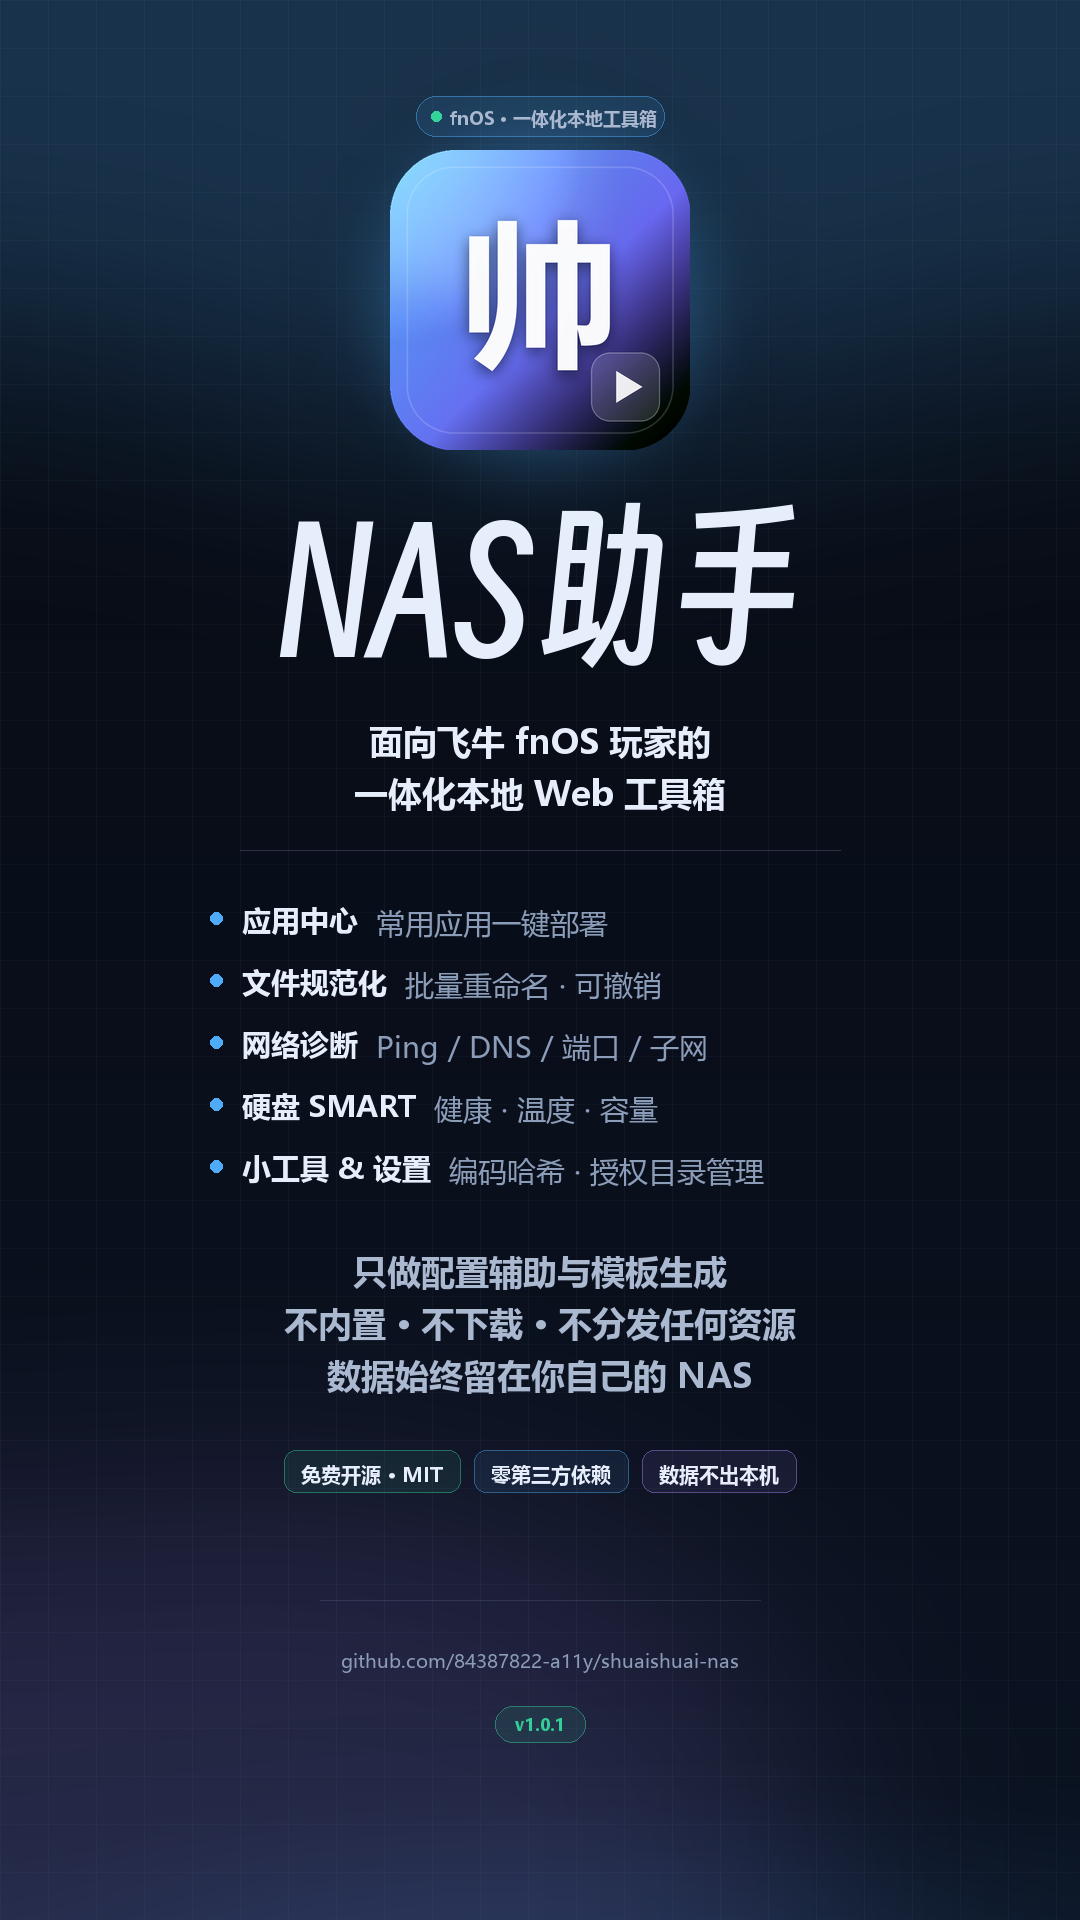
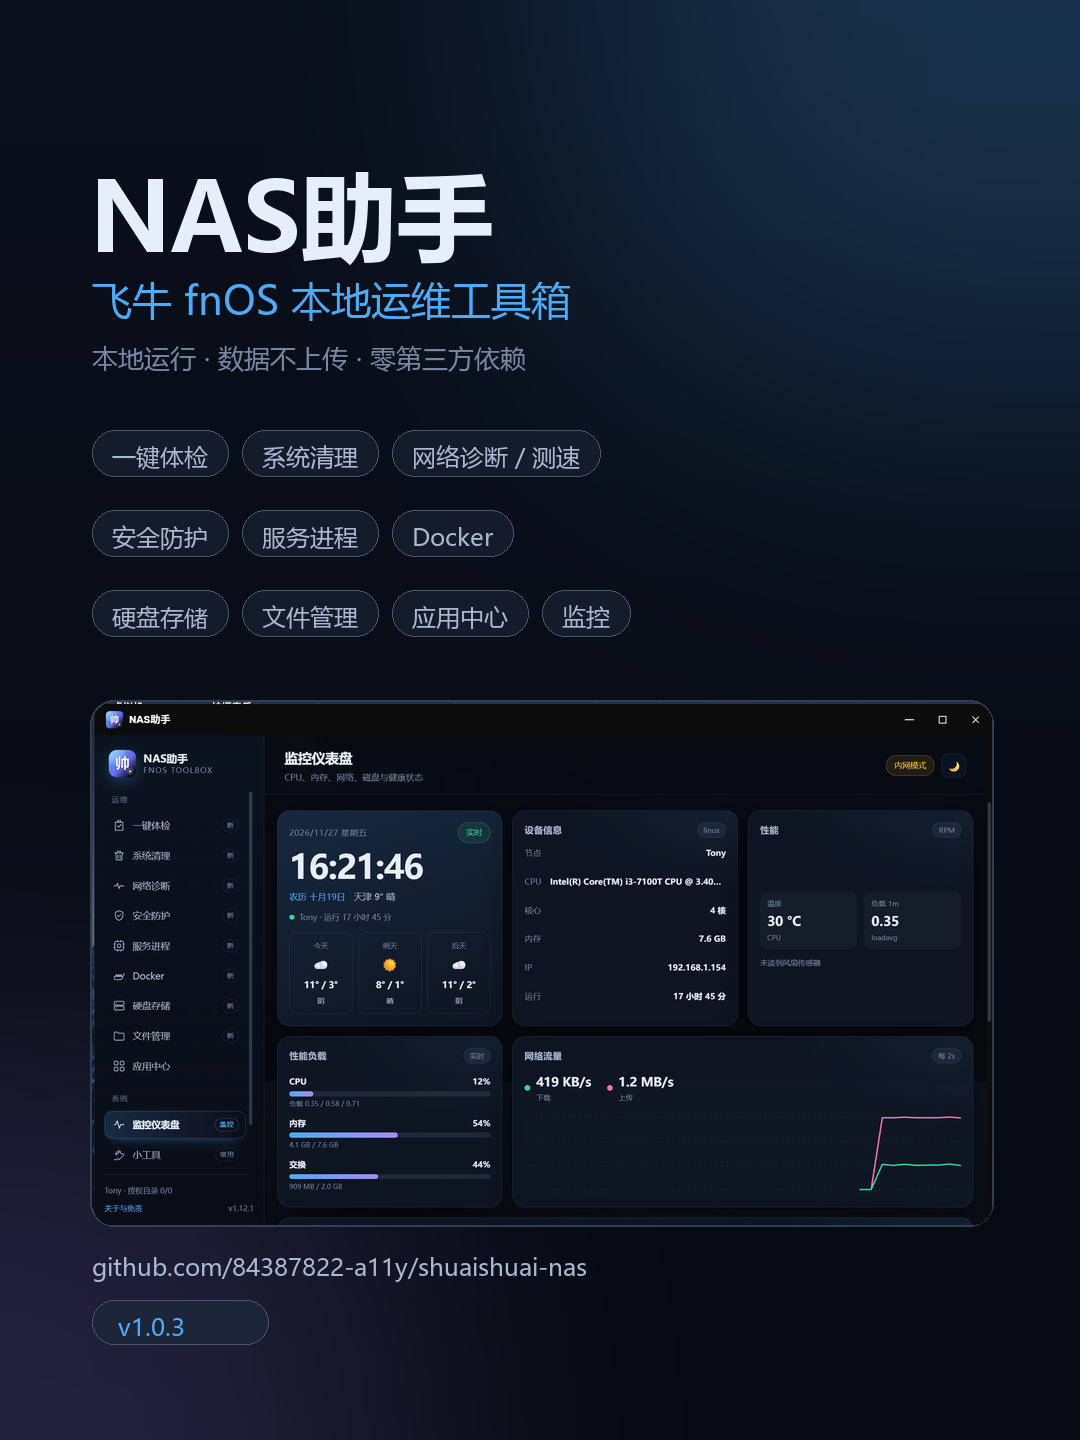
docs: 更新发布封面（横版 1280x640 / 竖版 1080x1440）

diff --git a/scripts/make-cover.py b/scripts/make-cover.py
@@ -1,0 +1,141 @@
+#!/usr/bin/env python
+"""生成发布用封面：1280x640（横版）与 1080x1440（竖版）。
+
+素材：真机截图 docs/screenshots/*.png；字体使用系统微软雅黑。
+输出：docs/cover.png、docs/cover-vertical.png
+"""
+
+from pathlib import Path
+
+from PIL import Image, ImageDraw, ImageFilter, ImageFont
+
+ROOT = Path(__file__).resolve().parent.parent
+SHOTS = ROOT / "docs" / "screenshots"
+OUT_H = ROOT / "docs" / "cover.png"
+OUT_V = ROOT / "docs" / "cover-vertical.png"
+
+FONT_BOLD = "C:/Windows/Fonts/msyhbd.ttc"
+FONT_REG = "C:/Windows/Fonts/msyh.ttc"
+
+BG_TOP = (10, 16, 28)
+BG_BOTTOM = (6, 10, 18)
+ACCENT = (77, 171, 247)
+ACCENT_2 = (167, 139, 250)
+TEXT = (231, 238, 251)
+TEXT_2 = (170, 184, 208)
+MUTED = (119, 135, 163)
+
+
+def font(path, size):
+    return ImageFont.truetype(path, size)
+
+
+def gradient(size):
+    w, h = size
+    img = Image.new("RGB", size, BG_TOP)
+    d = ImageDraw.Draw(img)
+    for y in range(h):
+        t = y / max(1, h - 1)
+        c = tuple(int(BG_TOP[i] + (BG_BOTTOM[i] - BG_TOP[i]) * t) for i in range(3))
+        d.line([(0, y), (w, y)], fill=c)
+    return img
+
+
+def add_glow(img, center, radius, color, alpha=70):
+    layer = Image.new("RGBA", img.size, (0, 0, 0, 0))
+    d = ImageDraw.Draw(layer)
+    x, y = center
+    d.ellipse([x - radius, y - radius, x + radius, y + radius], fill=color + (alpha,))
+    layer = layer.filter(ImageFilter.GaussianBlur(radius // 2))
+    img.alpha_composite(layer)
+
+
+def rounded_shot(path, width, radius=18, border=(60, 74, 96)):
+    shot = Image.open(path).convert("RGB")
+    ratio = width / shot.width
+    shot = shot.resize((width, int(shot.height * ratio)), Image.LANCZOS)
+    mask = Image.new("L", shot.size, 0)
+    ImageDraw.Draw(mask).rounded_rectangle([0, 0, shot.width, shot.height], radius=radius, fill=255)
+    out = Image.new("RGBA", shot.size, (0, 0, 0, 0))
+    out.paste(shot, (0, 0), mask)
+    frame = Image.new("RGBA", (shot.width + 4, shot.height + 4), (0, 0, 0, 0))
+    ImageDraw.Draw(frame).rounded_rectangle(
+        [0, 0, shot.width + 3, shot.height + 3], radius=radius + 2, outline=border + (200,), width=2
+    )
+    frame.alpha_composite(out, (2, 2))
+    return frame
+
+
+def chips(draw, x, y, items, size=19, gap=12, pad_x=16, pad_y=9):
+    f = font(FONT_REG, size)
+    cx = x
+    for text in items:
+        w = draw.textlength(text, font=f)
+        box = [cx, y, cx + w + pad_x * 2, y + size + pad_y * 2]
+        draw.rounded_rectangle(box, radius=(size + pad_y * 2) // 2, outline=(70, 86, 112), width=1, fill=(20, 28, 44))
+        draw.text((cx + pad_x, y + pad_y - 1), text, font=f, fill=TEXT_2)
+        cx = box[2] + gap
+    return cx
+
+
+def build_horizontal():
+    w, h = 1280, 640
+    img = gradient((w, h)).convert("RGBA")
+    add_glow(img, (1050, 90), 320, ACCENT, 60)
+    add_glow(img, (200, 620), 300, ACCENT_2, 45)
+
+    d = ImageDraw.Draw(img)
+
+    # 左侧文字
+    d.text((72, 118), "NAS助手", font=font(FONT_BOLD, 78), fill=TEXT)
+    d.text((74, 216), "飞牛 fnOS 本地运维工具箱", font=font(FONT_REG, 30), fill=ACCENT)
+    d.text((74, 268), "本地运行 · 数据不上传 · 零第三方依赖", font=font(FONT_REG, 21), fill=MUTED)
+
+    chips(d, 74, 330, ["一键体检", "系统清理", "网络诊断 / 测速"], size=18, gap=10)
+    chips(d, 74, 386, ["安全防护", "服务进程", "Docker"], size=18, gap=10)
+    chips(d, 74, 442, ["硬盘存储", "文件管理", "应用中心", "监控"], size=18, gap=10)
+
+    d.text((74, 556), "github.com/84387822-a11y/shuaishuai-nas", font=font(FONT_REG, 20), fill=TEXT_2)
+    d.rounded_rectangle([74, 590, 220, 590 + 34], radius=17, fill=(28, 38, 56), outline=(70, 86, 112))
+    d.text((94, 596), "v1.0.3", font=font(FONT_REG, 19), fill=ACCENT)
+
+    # 右侧截图：两张叠加
+    main = rounded_shot(SHOTS / "01-monitor.png", 620)
+    back = rounded_shot(SHOTS / "02-apps-center.png", 470)
+
+    img.alpha_composite(back, (w - back.width - 10, 96 + 26))
+    img.alpha_composite(main, (w - main.width - 66, 250))
+
+    img.convert("RGB").save(OUT_H, "PNG", optimize=True)
+    return OUT_H
+
+
+def build_vertical():
+    w, h = 1080, 1440
+    img = gradient((w, h)).convert("RGBA")
+    add_glow(img, (860, 120), 420, ACCENT, 55)
+    add_glow(img, (140, 1320), 380, ACCENT_2, 45)
+
+    d = ImageDraw.Draw(img)
+    d.text((90, 150), "NAS助手", font=font(FONT_BOLD, 96), fill=TEXT)
+    d.text((92, 272), "飞牛 fnOS 本地运维工具箱", font=font(FONT_REG, 40), fill=ACCENT)
+    d.text((92, 340), "本地运行 · 数据不上传 · 零第三方依赖", font=font(FONT_REG, 26), fill=MUTED)
+
+    chips(d, 92, 430, ["一键体检", "系统清理", "网络诊断 / 测速"], size=24, gap=14, pad_x=20, pad_y=11)
+    chips(d, 92, 510, ["安全防护", "服务进程", "Docker"], size=24, gap=14, pad_x=20, pad_y=11)
+    chips(d, 92, 590, ["硬盘存储", "文件管理", "应用中心", "监控"], size=24, gap=14, pad_x=20, pad_y=11)
+
+    shot = rounded_shot(SHOTS / "01-monitor.png", 900, radius=22)
+    img.alpha_composite(shot, (90, 700))
+
+    d.text((92, 1250), "github.com/84387822-a11y/shuaishuai-nas", font=font(FONT_REG, 24), fill=TEXT_2)
+    d.rounded_rectangle([92, 1300, 268, 1300 + 44], radius=22, fill=(28, 38, 56), outline=(70, 86, 112))
+    d.text((118, 1310), "v1.0.3", font=font(FONT_REG, 24), fill=ACCENT)
+
+    img.convert("RGB").save(OUT_V, "PNG", optimize=True)
+    return OUT_V
+
+
+if __name__ == "__main__":
+    print("saved", build_horizontal())
+    print("saved", build_vertical())
